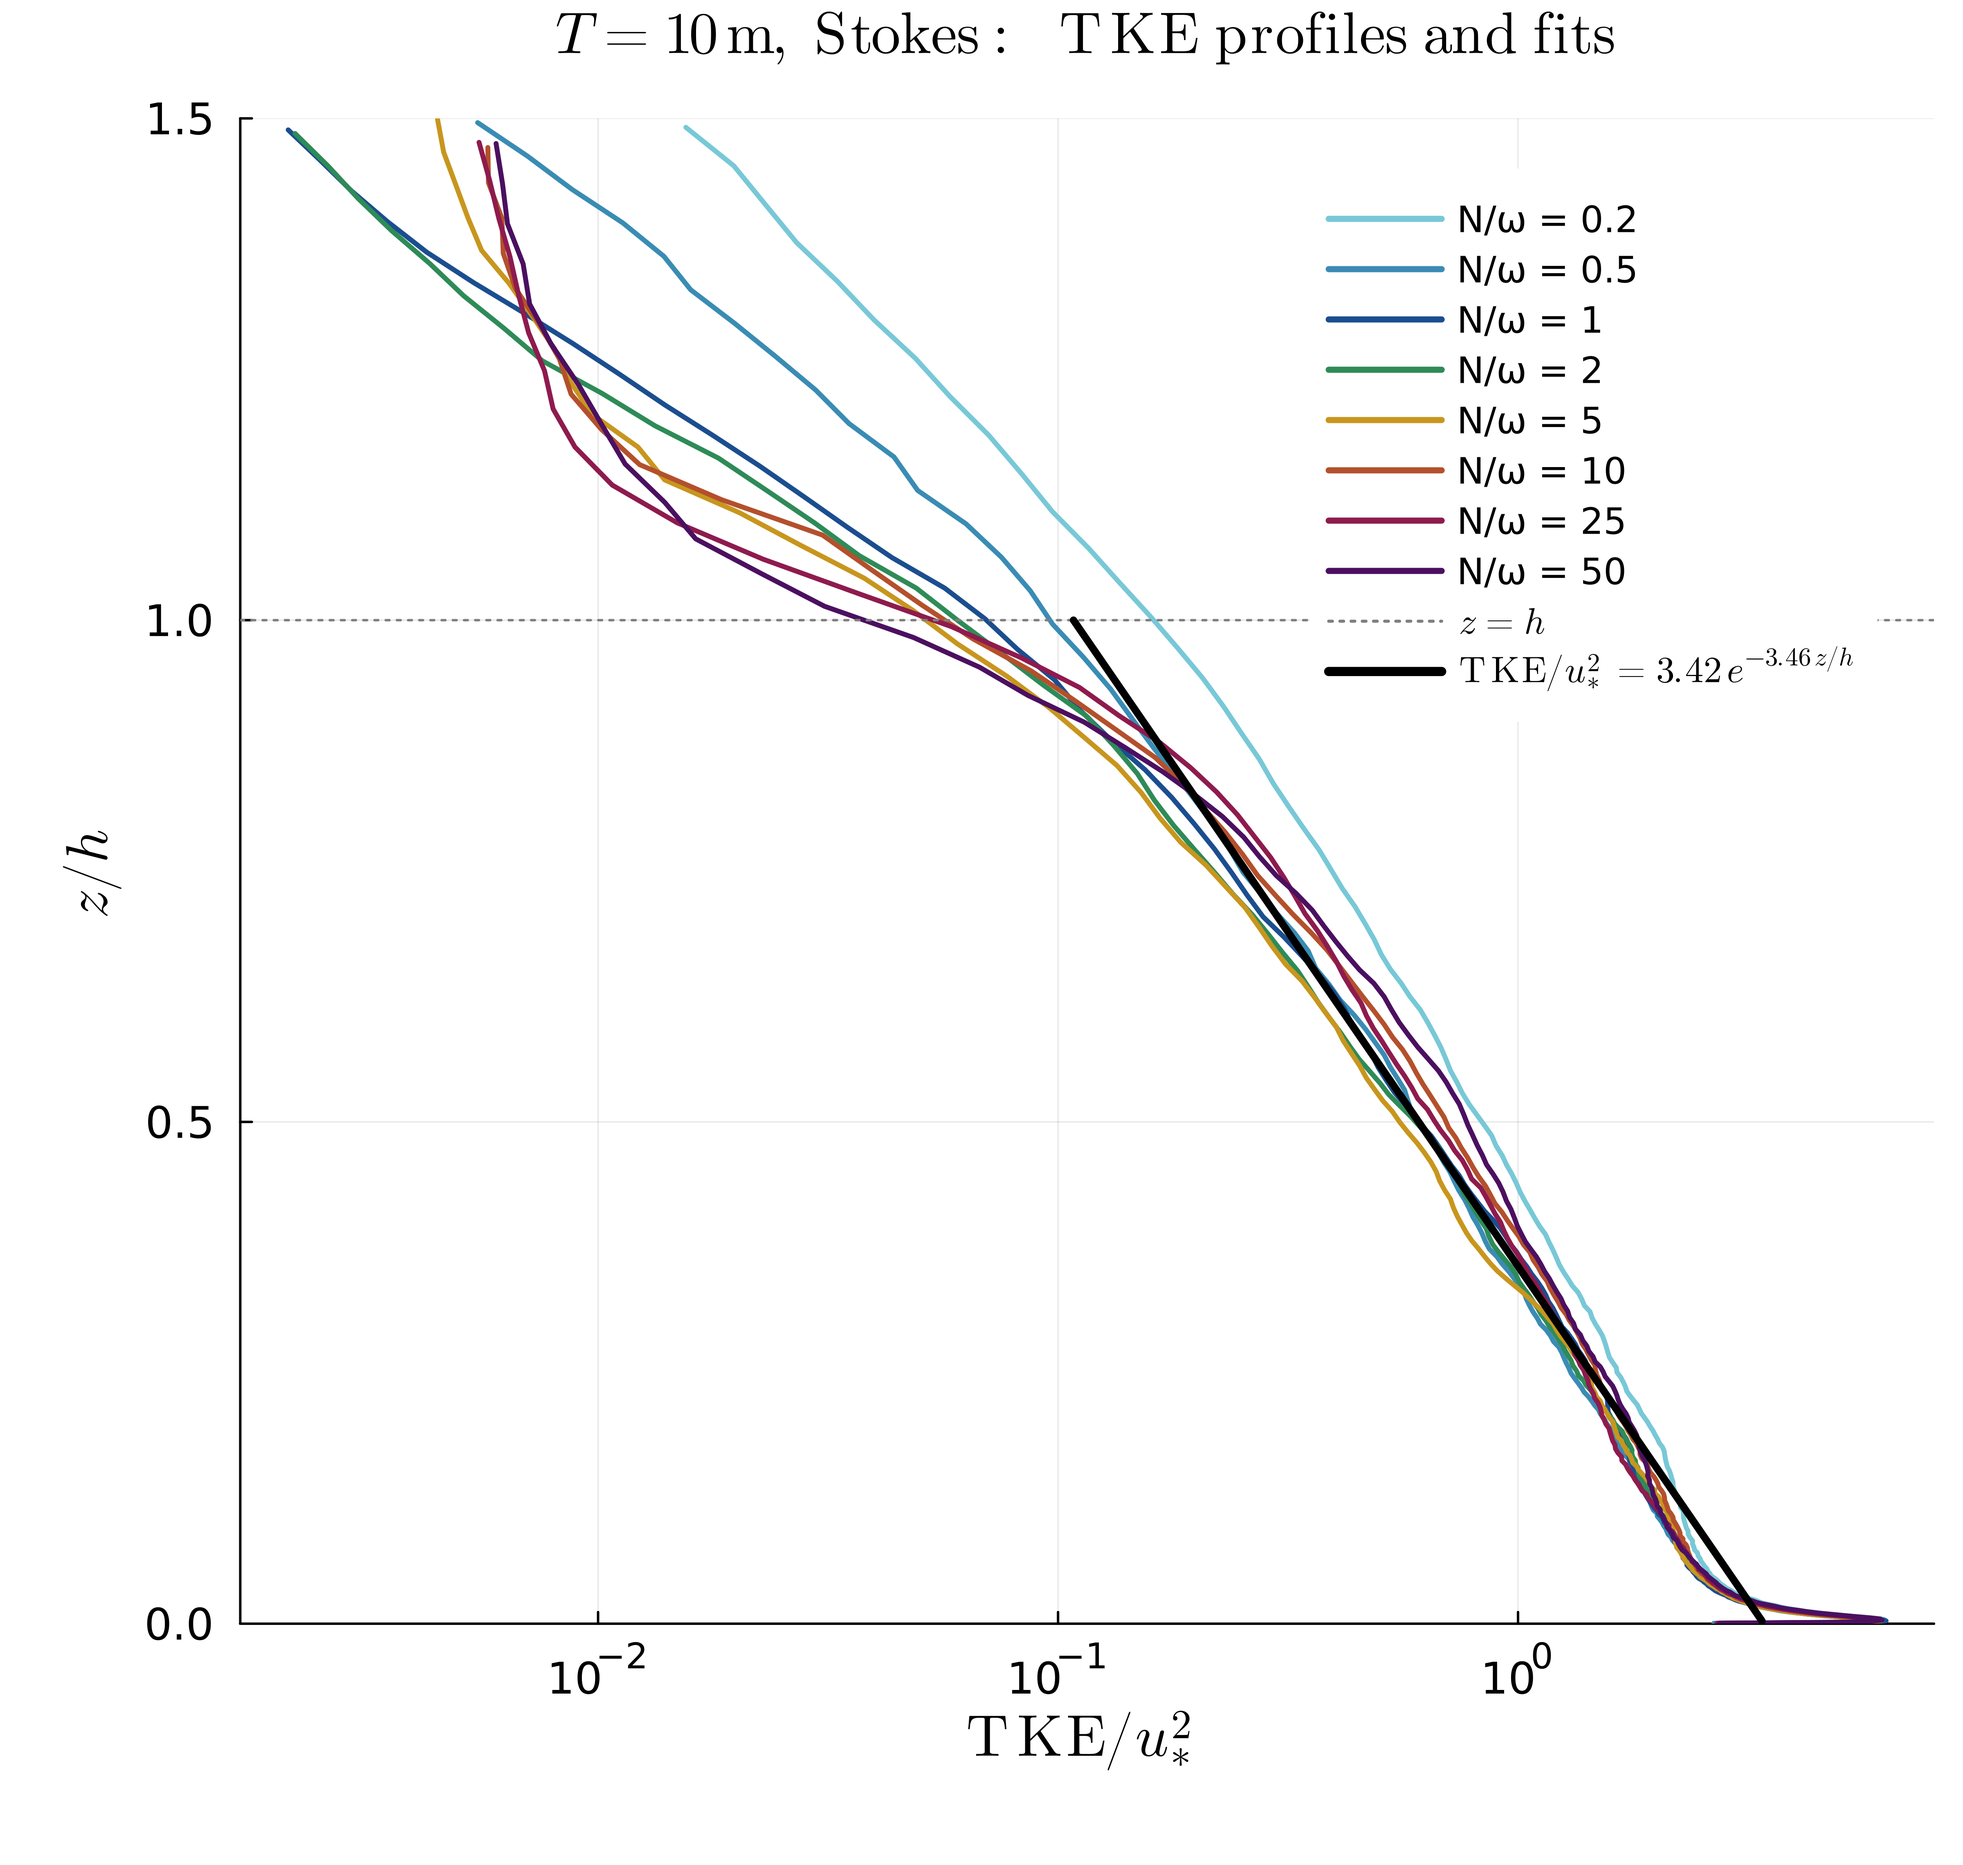
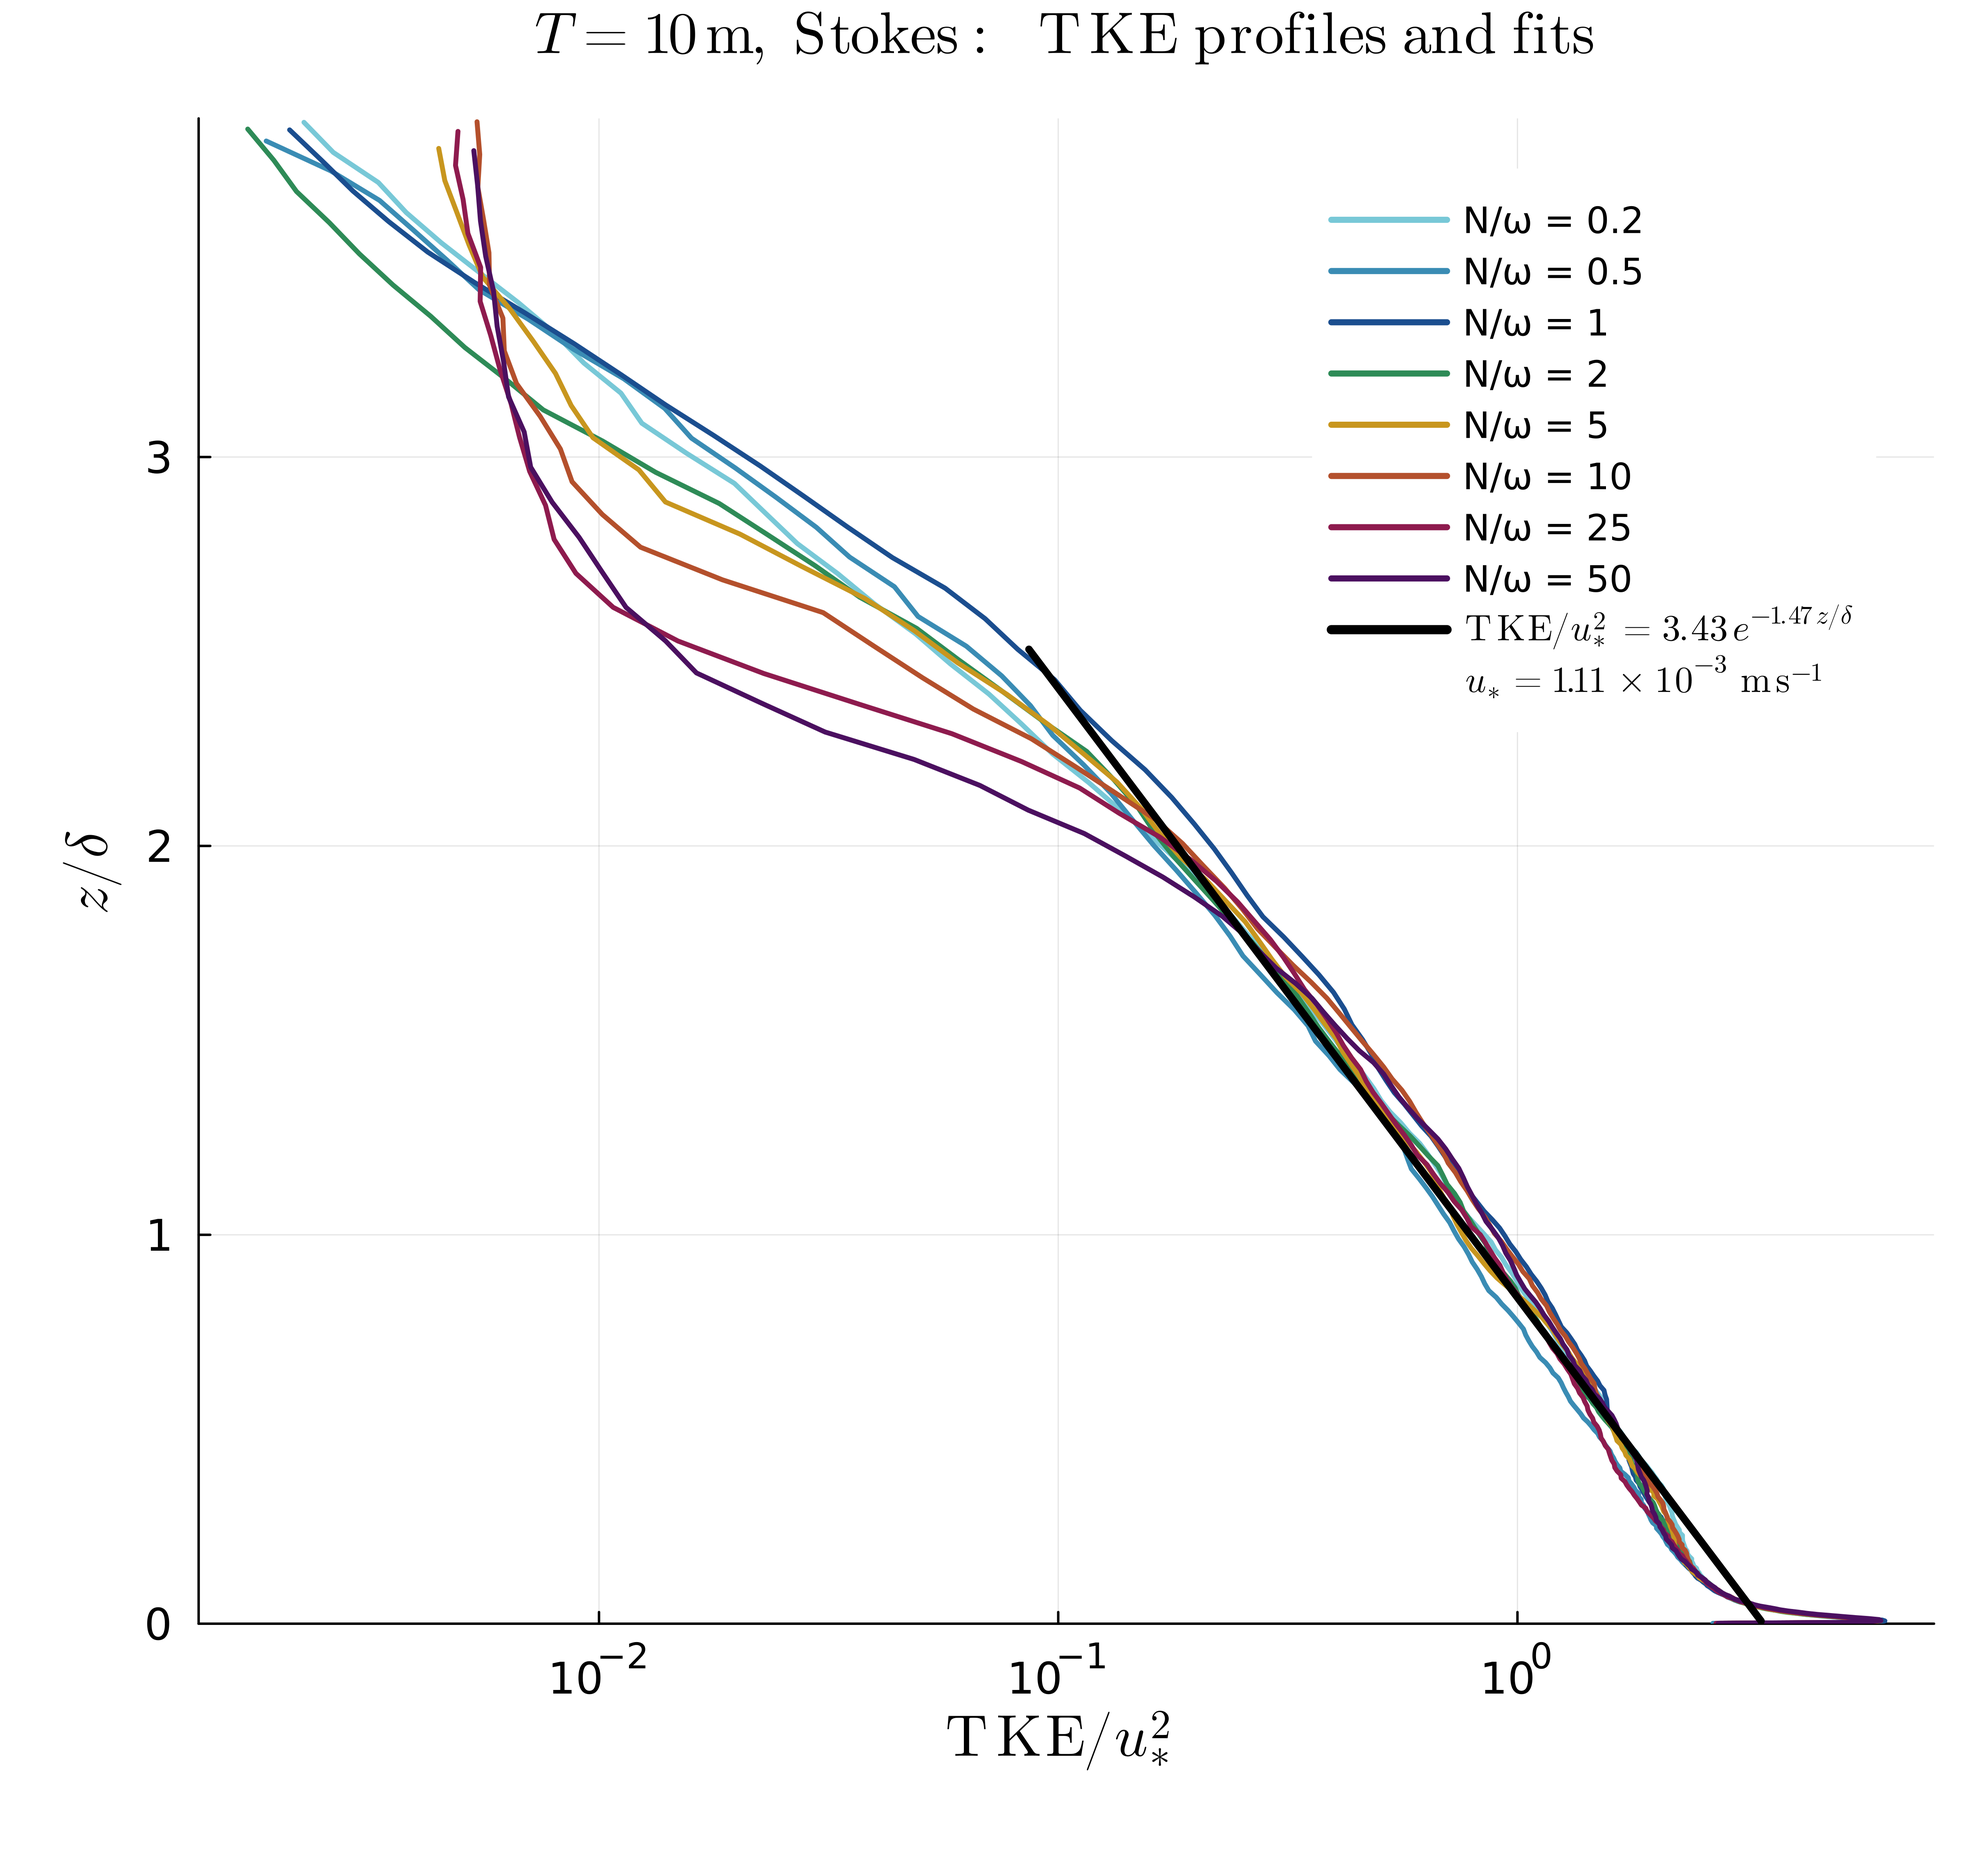
tke and K_T figures

diff --git a/Combined/README.md b/Combined/README.md
@@ -1022,30 +1022,44 @@ is, and on that measure both flows decay by about `e^(−3.4)` over one `h`.
 
 `figures/tke_fits_stokes_T10.png` (all eight `r`, the set of
 `KTstar_vs_Ri_stokes_T10.png`) and `figures/tke_fits_ekman_lowr_T10.png`
-(`r` < 25, the set of `KTstar_vs_Ri_zscan_ekman_lowr_T10.png`). `z/h` up,
+(`r` < 25, the set of `KTstar_vs_Ri_zscan_ekman_lowr_T10.png`). `z/δ` up,
 `TKE/u_*²` on a log axis, each case's profile in its colour, and **one** black
-line per flow: every case's points from its TKE peak to `z = h` pooled into a
-single least-squares fit of `log(TKE/u_*²)` against `z/h`.
+line per flow (the layer-top dots were drawn briefly and removed on request): every case's points
+from its TKE peak to `z = h` pooled into a single least-squares fit of
+`log(TKE/u_*²)` against `z/δ`. The legend shows the equation and the flow's
+measured `u_*` (median over cases: 1.11×10⁻³ m/s Stokes, 2.66×10⁻³ m/s Ekman
+`r` < 25 — each flat to ~2 % across its cases, range in the log); the rms is in
+`logs/plot_tke_fits_T10.log`.
 
-| flow | pooled fit | rms | per-case `a`, `b` |
+**Why `z/δ` and not `z/h`** (changed 2026-10-09). For the growth law
+`dh/dt = 2K_T/h` we need `TKE(h)`. In `z/h` the fit `a e^(−b z/h)` gives
+`TKE(h) = a e^(−b) u_*²` — a constant, whatever `h` is. In `z/δ`, with `δ` set by
+`u_*`, `ω` or `f` and `N` but not by `h`, it gives `TKE(h) = A₁ u_*² e^(−A₂ h/δ)`,
+which falls as the layer deepens. On the equilibrated data the two are the same
+fit (`h/δ` is nearly constant per flow, so `b = A₂ h/δ`); they differ only in
+what they predict while `h` changes, which these runs cannot test.
+
+| flow | pooled fit | rms | per-case `A₁`, `A₂` |
 |---|---|---|---|
-| Stokes, all `r` | `TKE/u_*² = 3.42 e^(−3.46 z/h)` | 17.6 % | 3.29–3.55, 2.94–3.77 |
-| Ekman, `r` < 25 | `TKE/u_*² = 1.79 e^(−3.86 z/h)` | 35.9 % | 1.73–2.01, 2.86–4.53 |
+| Stokes, all `r` | `TKE/u_*² = 3.43 e^(−1.47 z/δ)` | 15.7 % | 3.29–3.55, 1.38–1.52 |
+| Ekman, `r` < 25 | `TKE/u_*² = 1.72 e^(−5.68 z/δ)` | 41.2 % | 1.73–2.01, 4.20–6.88 |
 
-Written in `z/h`, so `b` is the stage-2 `A₂h/δ` and `a` is `A₁/u_*²` — the
-per-case numbers are the stage-2 table's (log: `logs/plot_tke_fits_T10.log`).
+(In `z/h` they were 17.6 % and 35.9 %.)
 
-**Stokes has one profile**; the pooled rms (17.6 %) is barely above the per-case
-13–19 %, so pooling costs almost nothing. What remains is shape: the profiles
-steepen in the bottom ~0.2 h and roll off just below `h`, so the single line is
-worst exactly at `z = h`. **Ekman does not** — each case is a clean exponential
-(rms ≤ 5.4 %) but the slope runs 4.53 → 2.86 with `r`, so the pooled line is a
-compromise through a fan and its 35.9 % is that spread. A single `TKE(z/h)` for
-the rotating column would need `b` to depend on `r`.
+**Stokes collapses slightly better in `z/δ` than in `z/h`.** Below `z ≈ 2δ`
+the eight profiles lie on one line. But the layer-top dots do **not** sit on it:
+`TKE(h)` runs from ~0.16 `u_*²` (`r` = 0.2) down to ~0.03 (`r` = 50), and the
+strongly stratified cases fall well below the exponential, because the
+profile rolls off just under `h`. So `A₁e^(−A₂h/δ)` overestimates `TKE(h)` at
+high `N` — the roll-off is stratification acting at the layer top, and the
+exponential does not contain it.
 
-The pooled fit weights each case by its number of grid points in range, so finer
-or deeper cases count for more. The legend shows the equation only; the rms is in
-the log, not on the figure (removed 2026-10-09 on request).
+**Ekman collapses worse in `z/δ`.** `A₂` (per `δ`) runs 6.88 → 4.20 with `r`,
+×1.6, so the fitted `δ` exponent (p = 0.155) does not absorb the change in
+decay rate; neither length makes these profiles collapse. A single Ekman
+`TKE(z)` needs `A₂` to depend on `r`.
+
+The pooled fit weights each case by its number of grid points in range.
 
 ### Stage 3 — the δ model for K_T
 

diff --git a/Combined/HANDOVER.md b/Combined/HANDOVER.md
@@ -173,9 +173,14 @@ detail. It surfaced an unlisted gap: to make K_T a function of h alone, S at
 the layer top needs a model in h; only S ~ N^p exists. Now on the open list.
 
 Built 2026-10-09: plot_tke_fits_T10.jl -> figures/tke_fits_{stokes,ekman_lowr}_T10.png,
-one pooled exponential per flow in z/h, equation (no rms) on the figure. Stokes
-TKE/u_*^2 = 3.42 e^(-3.46 z/h), 17.6 %; Ekman (r < 25) 1.79 e^(-3.86 z/h),
-35.9 % — Ekman's decay rate depends on r, so its single line is a compromise.
+one pooled exponential per flow, NOW IN z/delta (not z/h) so that TKE(h) =
+A1 u_*^2 e^(-A2 h/delta) depends on h — in z/h it is a constant. Stokes
+3.43 e^(-1.47 z/delta), 15.7 %; Ekman (r < 25) 1.72 e^(-5.68 z/delta), 41.2 %.
+GOTCHA for the growth closure: the measured Stokes TKE(h) sits well BELOW the
+exponential at high N (profile rolls off under h), so the fit overestimates
+TKE(h) there (no longer marked on the figure). Each legend also gives the
+median u_* (Stokes 1.11e-3, Ekman 2.66e-3 m/s). Ekman's decay rate depends on
+r in either scaling.
 
 2026-10-09: KTstar_vs_Ri_stokes_T10.png and ..._zscan_ekman_lowr_T10.png
 trimmed for slides (no rms or n in legends, no caveat note, shorter Stokes title,

diff --git a/Combined/THEORY.md b/Combined/THEORY.md
@@ -161,7 +161,7 @@ $dh/dt = 2K_T/h$, each ingredient has to be a function of $h$:
 | ingredient | how it becomes a function of $h$ |
 |---|---|
 | $N$ | the background stratification. It is known. |
-| $\mathrm{TKE}(h)$ | from a vertical profile of TKE (time-averaged over the forcing cycle in the oscillating case), e.g. $\mathrm{TKE}(z) = A_1 e^{-A_2 z/\delta}$ with $A_1 \propto u_*^2$ and $\delta$ a boundary-layer thickness, evaluated at $z = h$ |
+| $\mathrm{TKE}(h)$ | from a vertical profile of TKE (time-averaged over the forcing cycle in the oscillating case), e.g. $\mathrm{TKE}(z) = A_1 e^{-A_2 z/\delta}$ with $A_1 \propto u_*^2$ and $\delta$ a boundary-layer thickness, evaluated at $z = h$. The height must be scaled by a length that does **not** depend on $h$ (such as $\delta$): written as $e^{-b z/h}$, the profile gives $\mathrm{TKE}(h) = a e^{-b} u_*^2$, a constant |
 | $S(h)$ | **still needed.** The shear at the layer top also needs a model in terms of $h$ (and $u_*$, $N$). Without one, $K_T$ is a function of $h$ *and* $S$, not of $h$ alone. |
 
 With all three in place,
